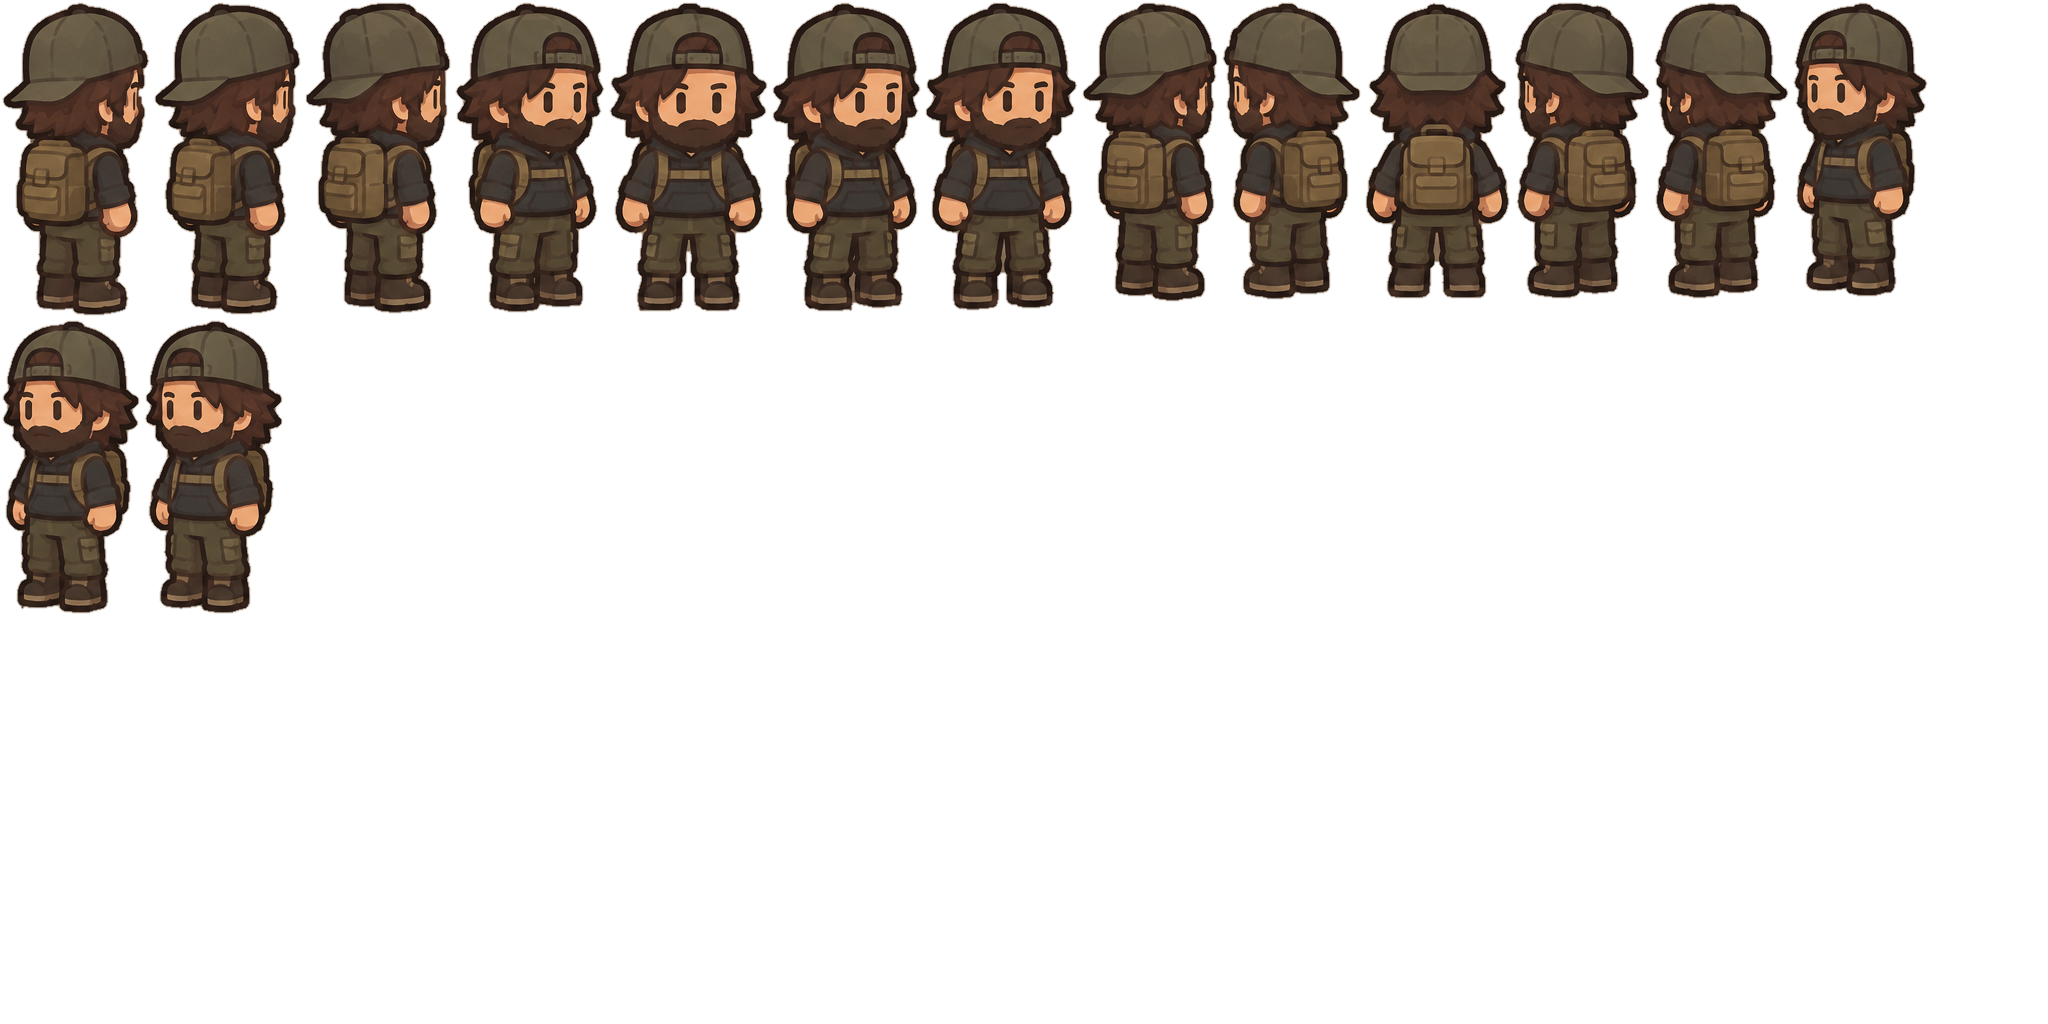
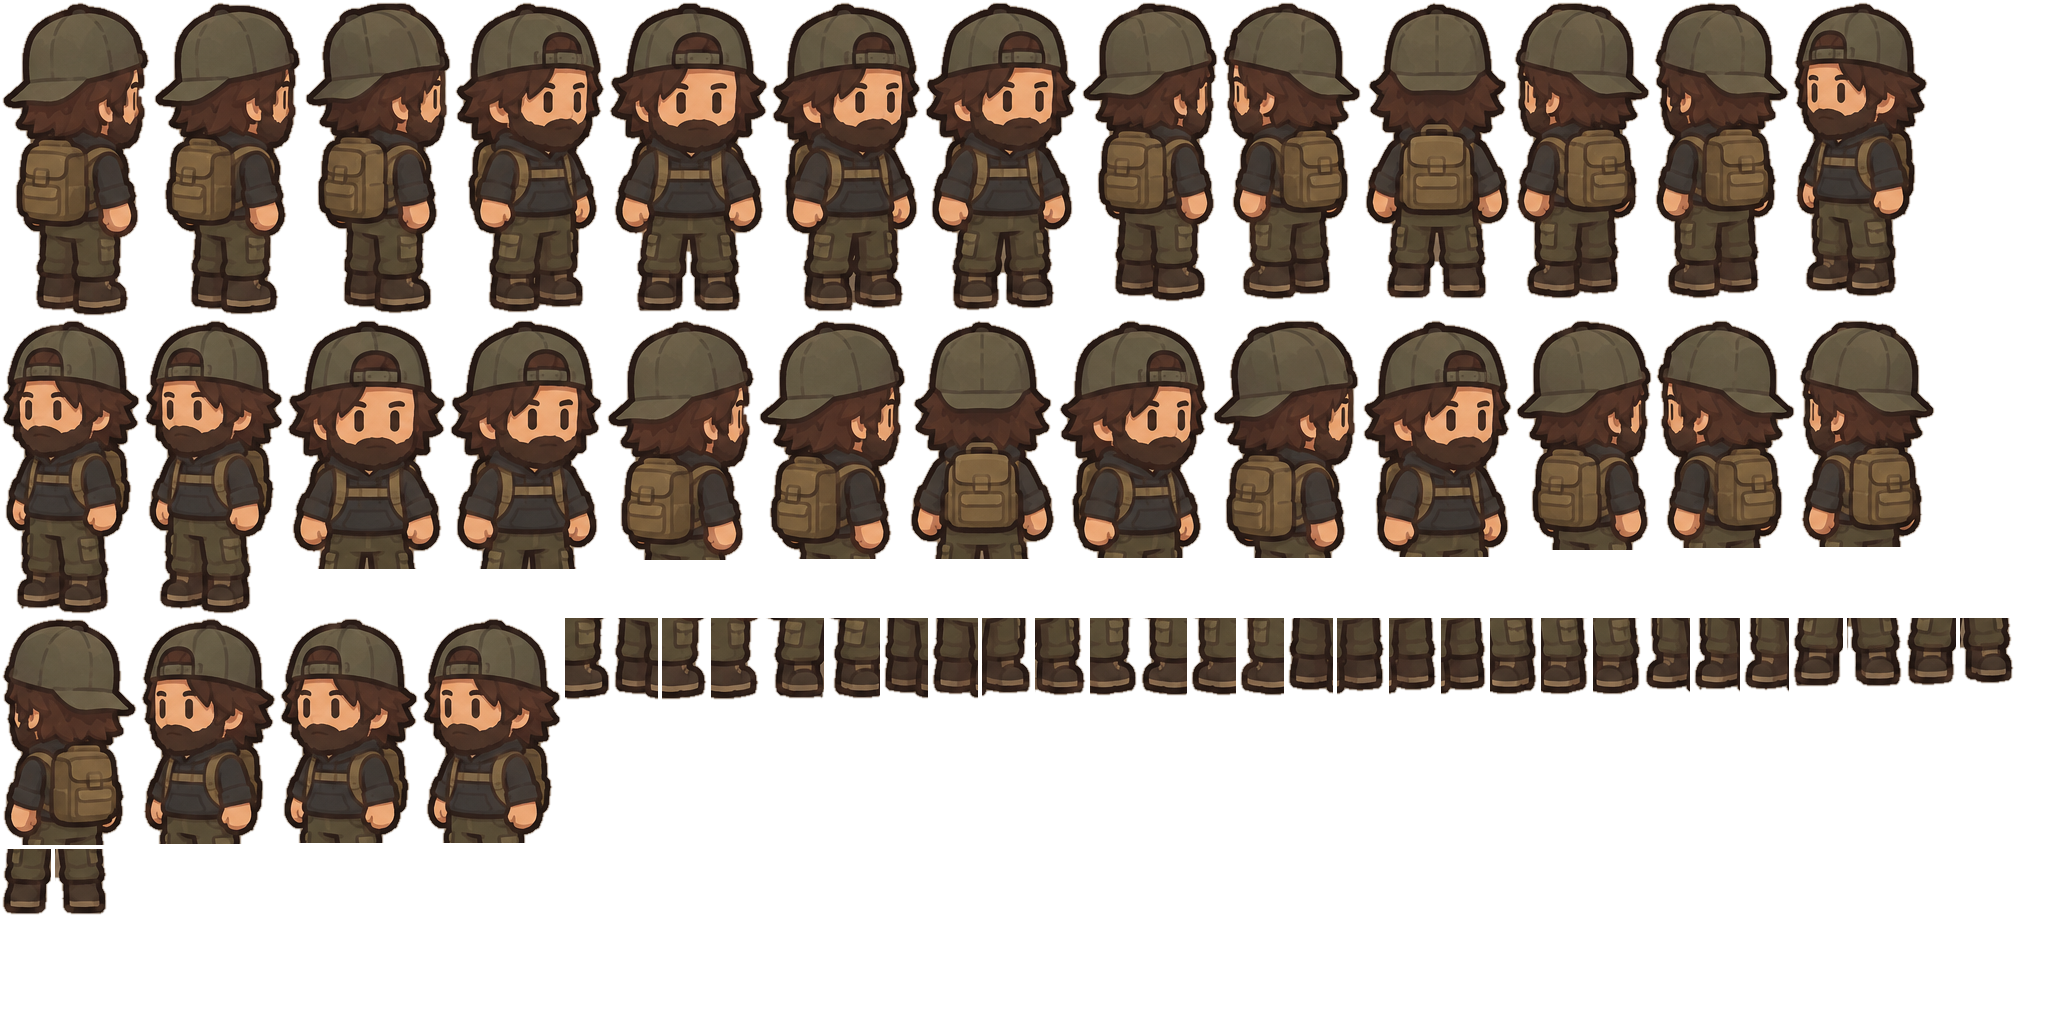
Step his legs, add the energy bar, show a phone-shaped screen on desktop
- Walking: each of the 15 poses is split into body, left leg and right
  leg (tools/build_assets.py finds the crotch from the gap between the
  boots). The legs lift in turn, swing forward and back when he walks
  sideways, and the body rises a little on each step, in place of the
  old whole-body bob. Walk-cycle art will replace this.
- Atlas packer now trims empty borders and records the offsets, so the
  full-canvas leg parts cost little.
- HUD: energy bar with image 07's lightning icon (health, food, water,
  energy). Energy uses the brief's #E3A52A; food keeps image 08's look
  in a warmer orange so the two bars differ. Coins start at 0.
- On wide screens the game shows at a portrait phone's shape, centred;
  phones in portrait still use the full screen.

Claude-Session: https://claude.ai/code/session_018CfixfM7GKFLCjEGdXUUGb

Changed region(s): [[0.125, 0.3125, 0.9688, 0.5625], [0.0, 0.5938, 1.0, 0.9062]]

diff --git a/src/entities/Player.ts b/src/entities/Player.ts
@@ -5,15 +5,25 @@ import type { WalkGrid } from '../world/walkGrid';
 import { headingOf, idleFacing, nearestPose, poseFrame, turnToward, walkFacing } from './facing';
 
 const P = tuning.player;
+const W = tuning.player.walk;
 /** Height of the front pose in image 03; every pose shares this scale. */
 const SOURCE_HEIGHT = 310;
 
 /**
  * The castaway. Taps give him a path to follow; WASD or the arrow keys steer
  * him directly. He turns smoothly through image 03's fifteen poses.
+ *
+ * Each pose is drawn as a body and two legs (split by tools/build_assets.py)
+ * so he can step: the legs lift in turn, swing forward and back when he walks
+ * sideways, and the body rises a little on each step. Real walk-cycle frames
+ * will replace this when the art exists (docs/ASSETS-NEEDED.md).
  */
 export class Player {
-  readonly sprite: Phaser.GameObjects.Sprite;
+  /** The castaway as drawn; the camera follows this. */
+  readonly view: Phaser.GameObjects.Container;
+  private body: Phaser.GameObjects.Image;
+  private legL: Phaser.GameObjects.Image;
+  private legR: Phaser.GameObjects.Image;
   private shadow: Phaser.GameObjects.Image;
   private path: Vec[] = [];
   private facing = 0;
@@ -32,7 +42,11 @@ export class Player {
     this.y = start.y;
     const scale = P.displayHeight / SOURCE_HEIGHT;
     this.shadow = scene.add.image(start.x, start.y, 'soft_shadow').setDisplaySize(96, 30).setAlpha(0.45);
-    this.sprite = scene.add.sprite(start.x, start.y, 'character', poseFrame(0)).setOrigin(0.5, 0.985).setScale(scale);
+    const part = (): Phaser.GameObjects.Image => scene.add.image(0, 0, 'character', `${poseFrame(0)}_body`).setOrigin(0.5, 0.985);
+    this.legR = part();
+    this.legL = part();
+    this.body = part();
+    this.view = scene.add.container(start.x, start.y, [this.legR, this.legL, this.body]).setScale(scale);
     this.facing = this.targetFacing = P.idlePoseRight;
     this.applyPose();
   }
@@ -90,7 +104,7 @@ export class Player {
     } else {
       this.idleFor += dt;
       if (this.idleFor >= P.idleTurnDelay && this.idleFor - dt < P.idleTurnDelay) this.targetFacing = idleFacing(this.facing);
-      // Settle the bob back onto his feet.
+      // Finish the step so both feet come down.
       const s = Math.sin(this.stepPhase);
       if (Math.abs(s) > 0.02) this.stepPhase += dt * P.stepsPerSecond * Math.PI * (s > 0 ? 1 : -1) * 0.5;
       else this.stepPhase = 0;
@@ -120,10 +134,22 @@ export class Player {
   }
 
   private applyPose(): void {
-    const bob = Math.abs(Math.sin(this.stepPhase)) * P.bobHeight;
-    this.sprite.setFrame(poseFrame(nearestPose(this.facing)));
-    this.sprite.setPosition(this.x, this.y - bob);
-    this.sprite.setDepth(this.y);
+    const frame = poseFrame(nearestPose(this.facing));
+    this.body.setFrame(`${frame}_body`);
+    this.legL.setFrame(`${frame}_legl`);
+    this.legR.setFrame(`${frame}_legr`);
+
+    // One full cycle is two steps: the left leg lifts on the first half, the
+    // right on the second. Walking sideways the legs also swing, forward
+    // being the way he faces. Units are image-03 pixels (the view is scaled).
+    const s = Math.sin(this.stepPhase);
+    const c = Math.cos(this.stepPhase);
+    const side = Math.sin(Phaser.Math.DegToRad(this.facing));
+    this.legL.setPosition(c * W.legSwing * side, -Math.max(0, s) * W.legLift);
+    this.legR.setPosition(-c * W.legSwing * side, -Math.max(0, -s) * W.legLift);
+    this.body.setY(-Math.abs(s) * W.bodyRise);
+
+    this.view.setPosition(this.x, this.y).setDepth(this.y);
     this.shadow.setPosition(this.x, this.y - 2).setDepth(this.y - 0.5);
   }
 }

diff --git a/src/scenes/HudScene.ts b/src/scenes/HudScene.ts
@@ -19,7 +19,8 @@ const M = 10;
 const TEXT_LIGHT = '#F3E8CF';
 const TEXT_DARK = '#2A1D12';
 const OUTLINE = '#211912';
-const BAR_COLOURS = { health: 0xd63a2c, food: 0xe3a52a, water: 0x3f8fd0 } as const;
+// Health, energy and water from the brief's palette; food keeps image 08's warmer orange.
+const BAR_COLOURS = { health: 0xd63a2c, food: 0xd9772b, water: 0x3f8fd0, energy: 0xe3a52a } as const;
 type Stat = keyof typeof BAR_COLOURS;
 
 interface Bar {
@@ -175,9 +176,10 @@ export class HudScene extends Phaser.Scene {
       ['health', 'icon_health', stats.health],
       ['food', 'icon_food', stats.food],
       ['water', 'icon_water', stats.water],
+      ['energy', 'icon_energy', stats.energy],
     ];
     rows.forEach(([stat, icon, max], i) => {
-      const y = 36 + i * 24;
+      const y = 34 + i * 23;
       const ic = this.piece(icon, 0, 0, 18);
       ic.setPosition(this.L(178) - ic.displayWidth / 2, this.T(y + 10) - ic.displayHeight / 2);
       this.piece('bar_track', this.L(190), this.T(y), 100);
@@ -188,12 +190,12 @@ export class HudScene extends Phaser.Scene {
     });
 
     const pill = this.add.graphics();
-    pill.fillStyle(0x211912, 0.62).fillRoundedRect(this.L(170), this.T(110), 96 * this.k, 26 * this.k, 8 * this.k);
+    pill.fillStyle(0x211912, 0.62).fillRoundedRect(this.L(170), this.T(128), 96 * this.k, 26 * this.k, 8 * this.k);
     this.root.add(pill);
-    const coin = this.piece('icon_coin', this.L(172), this.T(111), 24);
-    coin.setY(this.T(123) - coin.displayHeight / 2);
-    this.text(this.L(201), this.T(123), String(stats.startingCoins), 15, TEXT_LIGHT, [0, 0.5]);
-    this.button('button_plus', this.L(241), this.T(112), 22, () => this.showMessage("The shop isn't open yet."));
+    const coin = this.piece('icon_coin', this.L(172), this.T(129), 24);
+    coin.setY(this.T(141) - coin.displayHeight / 2);
+    this.text(this.L(201), this.T(141), String(stats.startingCoins), 15, TEXT_LIGHT, [0, 0.5]);
+    this.button('button_plus', this.L(241), this.T(130), 22, () => this.showMessage("The shop isn't open yet."));
   }
 
   private buildTopRight(): void {
@@ -201,7 +203,7 @@ export class HudScene extends Phaser.Scene {
 
     // The goal panel: the first goal in the brief's chain.
     const w = 156;
-    const panel = this.piece('quest_panel', this.R(DESIGN_W - M - w), this.T(146), w);
+    const panel = this.piece('quest_panel', this.R(DESIGN_W - M - w), this.T(164), w);
     this.hitAreas.push(panel.getBounds());
     const s = panel.scale / this.k; // points per atlas pixel
     const px = (ax: number): number => panel.x + ax * s * this.k;

diff --git a/index.html b/index.html
@@ -28,6 +28,21 @@
       #game canvas {
         display: block;
       }
+      /* On wide screens (desktop, landscape) show the game at a portrait
+         phone's shape in the middle; phones in portrait get the full screen. */
+      @media (min-aspect-ratio: 3/4) {
+        html,
+        body {
+          background: #1b3531;
+        }
+        #game {
+          right: 0;
+          left: 0;
+          margin: 0 auto;
+          width: calc(100vh * 360 / 780);
+          box-shadow: 0 0 0 2px #211912, 0 12px 48px rgba(0, 0, 0, 0.55);
+        }
+      }
     </style>
   </head>
   <body>

diff --git a/src/scenes/IslandScene.ts b/src/scenes/IslandScene.ts
@@ -41,7 +41,7 @@ export class IslandScene extends Phaser.Scene {
 
     const cam = this.cameras.main;
     cam.setBounds(0, 0, size, size);
-    cam.startFollow(this.player.sprite, true, tuning.view.cameraLerp, tuning.view.cameraLerp);
+    cam.startFollow(this.player.view, true, tuning.view.cameraLerp, tuning.view.cameraLerp);
     this.fitCamera();
     this.scale.on('resize', this.fitCamera, this);
     cam.centerOn(island.playerStart.x, island.playerStart.y);

diff --git a/tools/build_assets.py b/tools/build_assets.py
@@ -54,6 +54,46 @@ def cut_character() -> dict[str, Image.Image]:
     return out
 
 
+def split_legs(poses: dict[str, Image.Image]) -> dict[str, Image.Image]:
+    """Cut every pose into body, left leg and right leg so the game can step
+    the legs in turn until real walk-cycle frames exist. Each part keeps the
+    pose's full canvas, so all three share one origin and line up exactly.
+
+    The legs start just above the crotch (found from the gap between the
+    boots); the body keeps a few rows of overlap so a lifted leg slides up
+    under it instead of opening a seam."""
+    out = {}
+    for name, img in poses.items():
+        a = np.array(img)
+        alpha = a[..., 3] > 128
+        h, w = alpha.shape
+        feet = alpha[int(h * 0.88) :].sum(0)
+        cols = np.nonzero(feet)[0]
+        lo, hi = cols[0], cols[-1]
+        mid = slice(lo + (hi - lo) // 4, hi - (hi - lo) // 4)
+        split_x = mid.start + int(np.argmin(feet[mid]))
+        if feet[split_x] > feet[lo:hi].max() * 0.5:  # boots overlap: split the feet down the middle
+            split_x = (lo + hi) // 2
+        gap = ~alpha[:, max(0, split_x - 1) : split_x + 2].any(1)
+        row = h - 1
+        while row > h * 0.6 and (gap[row] or row > h - 4):
+            row -= 1
+        crotch = row + 1
+        split_y = min(crotch - 6, int(h * 0.78)) if crotch < h - 10 else int(h * 0.74)
+        top = a.copy()
+        top[split_y + 8 :, :, 3] = 0
+        left = a.copy()
+        left[:split_y, :, 3] = 0
+        left[:, split_x:, 3] = 0
+        right = a.copy()
+        right[:split_y, :, 3] = 0
+        right[:, :split_x, 3] = 0
+        out[f"{name}_body"] = Image.fromarray(top, "RGBA")
+        out[f"{name}_legl"] = Image.fromarray(left, "RGBA")
+        out[f"{name}_legr"] = Image.fromarray(right, "RGBA")
+    return out
+
+
 def cut_palms() -> dict[str, Image.Image]:
     rgb = load_rgb(f"{REF}/04-palm-trees.png")
     cs = components(chroma_mask(rgb, (133, 107, 84)), 3000)
@@ -333,6 +373,11 @@ def cut_hud() -> tuple[dict[str, Image.Image], dict]:
     rows, cols = np.nonzero(fill)
     layout = {"barFill": [int(cols.min()), int(rows.min()), int(cols.max() + 1), int(rows.max() + 1)]}
 
+    # Image 08 has no energy bar; its lightning icon comes from image 07's HUD.
+    fp = load_rgb(f"{REF}/07-fishing-pov.png")
+    ys, xs, m = segment_prop(fp, box=(20, 298, 64, 350))
+    out["icon_energy"] = trim(cutout(fp, ys, xs, m, pad=1))
+
     out["minimap"] = clean_minimap(out["minimap"], clean)
     return out, layout
 
@@ -360,8 +405,16 @@ def clean_minimap(img: Image.Image, clean: np.ndarray) -> Image.Image:
 
 
 def pack(frames: dict[str, Image.Image], name: str, max_size: int = 2048, pad: int = 2) -> dict:
-    """Shelf-pack frames into one or more pages; write a Phaser multiatlas."""
-    items = sorted(frames.items(), key=lambda kv: -kv[1].height)
+    """Shelf-pack frames into one or more pages; write a Phaser multiatlas.
+    Empty borders are trimmed off and recorded, so frames keep their size."""
+    sources = {k: v.size for k, v in frames.items()}
+    offsets = {}
+    trimmed = {}
+    for k, v in frames.items():
+        box = v.getchannel("A").getbbox() or (0, 0, 1, 1)
+        offsets[k] = box[:2]
+        trimmed[k] = v.crop(box)
+    items = sorted(trimmed.items(), key=lambda kv: -kv[1].height)
     pages: list[list[tuple[str, int, int, Image.Image]]] = [[]]
     x = y = shelf = 0
     for fname, img in items:
@@ -384,13 +437,15 @@ def pack(frames: dict[str, Image.Image], name: str, max_size: int = 2048, pad: i
         for fname, px, py, img in page:
             sheet.paste(img, (px, py))
             w, h = img.size
+            sw, sh = sources[fname]
+            ox, oy = offsets[fname]
             tframes.append(
                 dict(
                     filename=fname,
                     rotated=False,
-                    trimmed=False,
-                    sourceSize=dict(w=w, h=h),
-                    spriteSourceSize=dict(x=0, y=0, w=w, h=h),
+                    trimmed=(w, h) != (sw, sh),
+                    sourceSize=dict(w=sw, h=sh),
+                    spriteSourceSize=dict(x=ox, y=oy, w=w, h=h),
                     frame=dict(x=px, y=py, w=w, h=h),
                 )
             )
@@ -420,7 +475,7 @@ def main() -> None:
     hud, hud_layout = cut_hud()
     with open(os.path.join(gen, "hud-layout.json"), "w") as f:
         json.dump(hud_layout, f, indent=1)
-    pack(character, "character")
+    pack({**character, **split_legs(character)}, "character")
     pack(world, "world")
     pack(hud, "hud")
     paint_textures.main(os.path.join(OUT, "textures"), REF)
